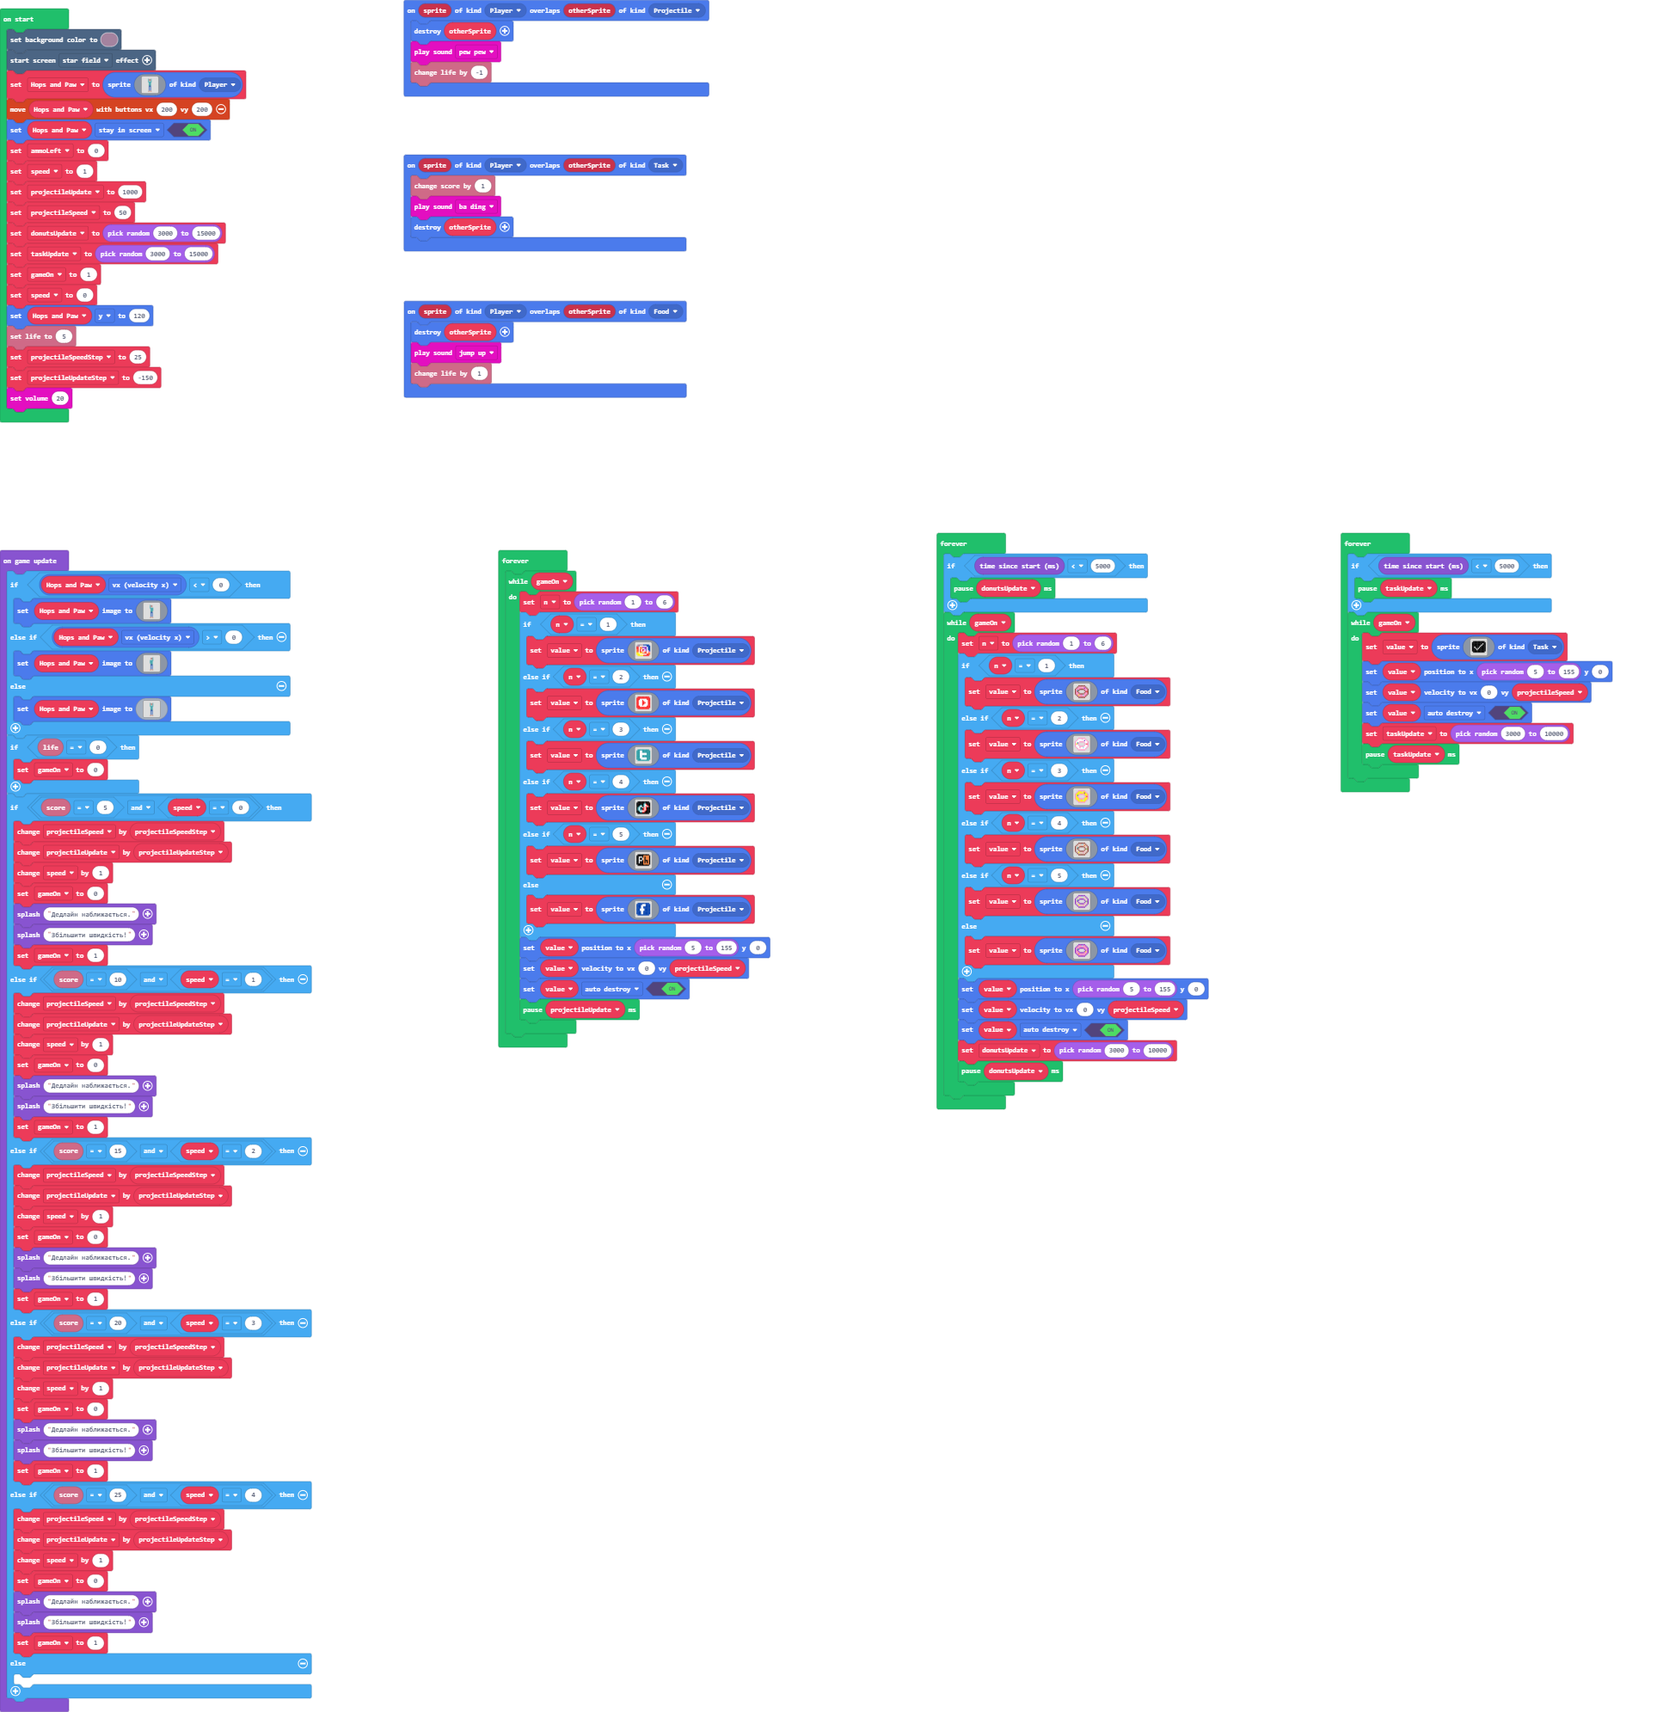
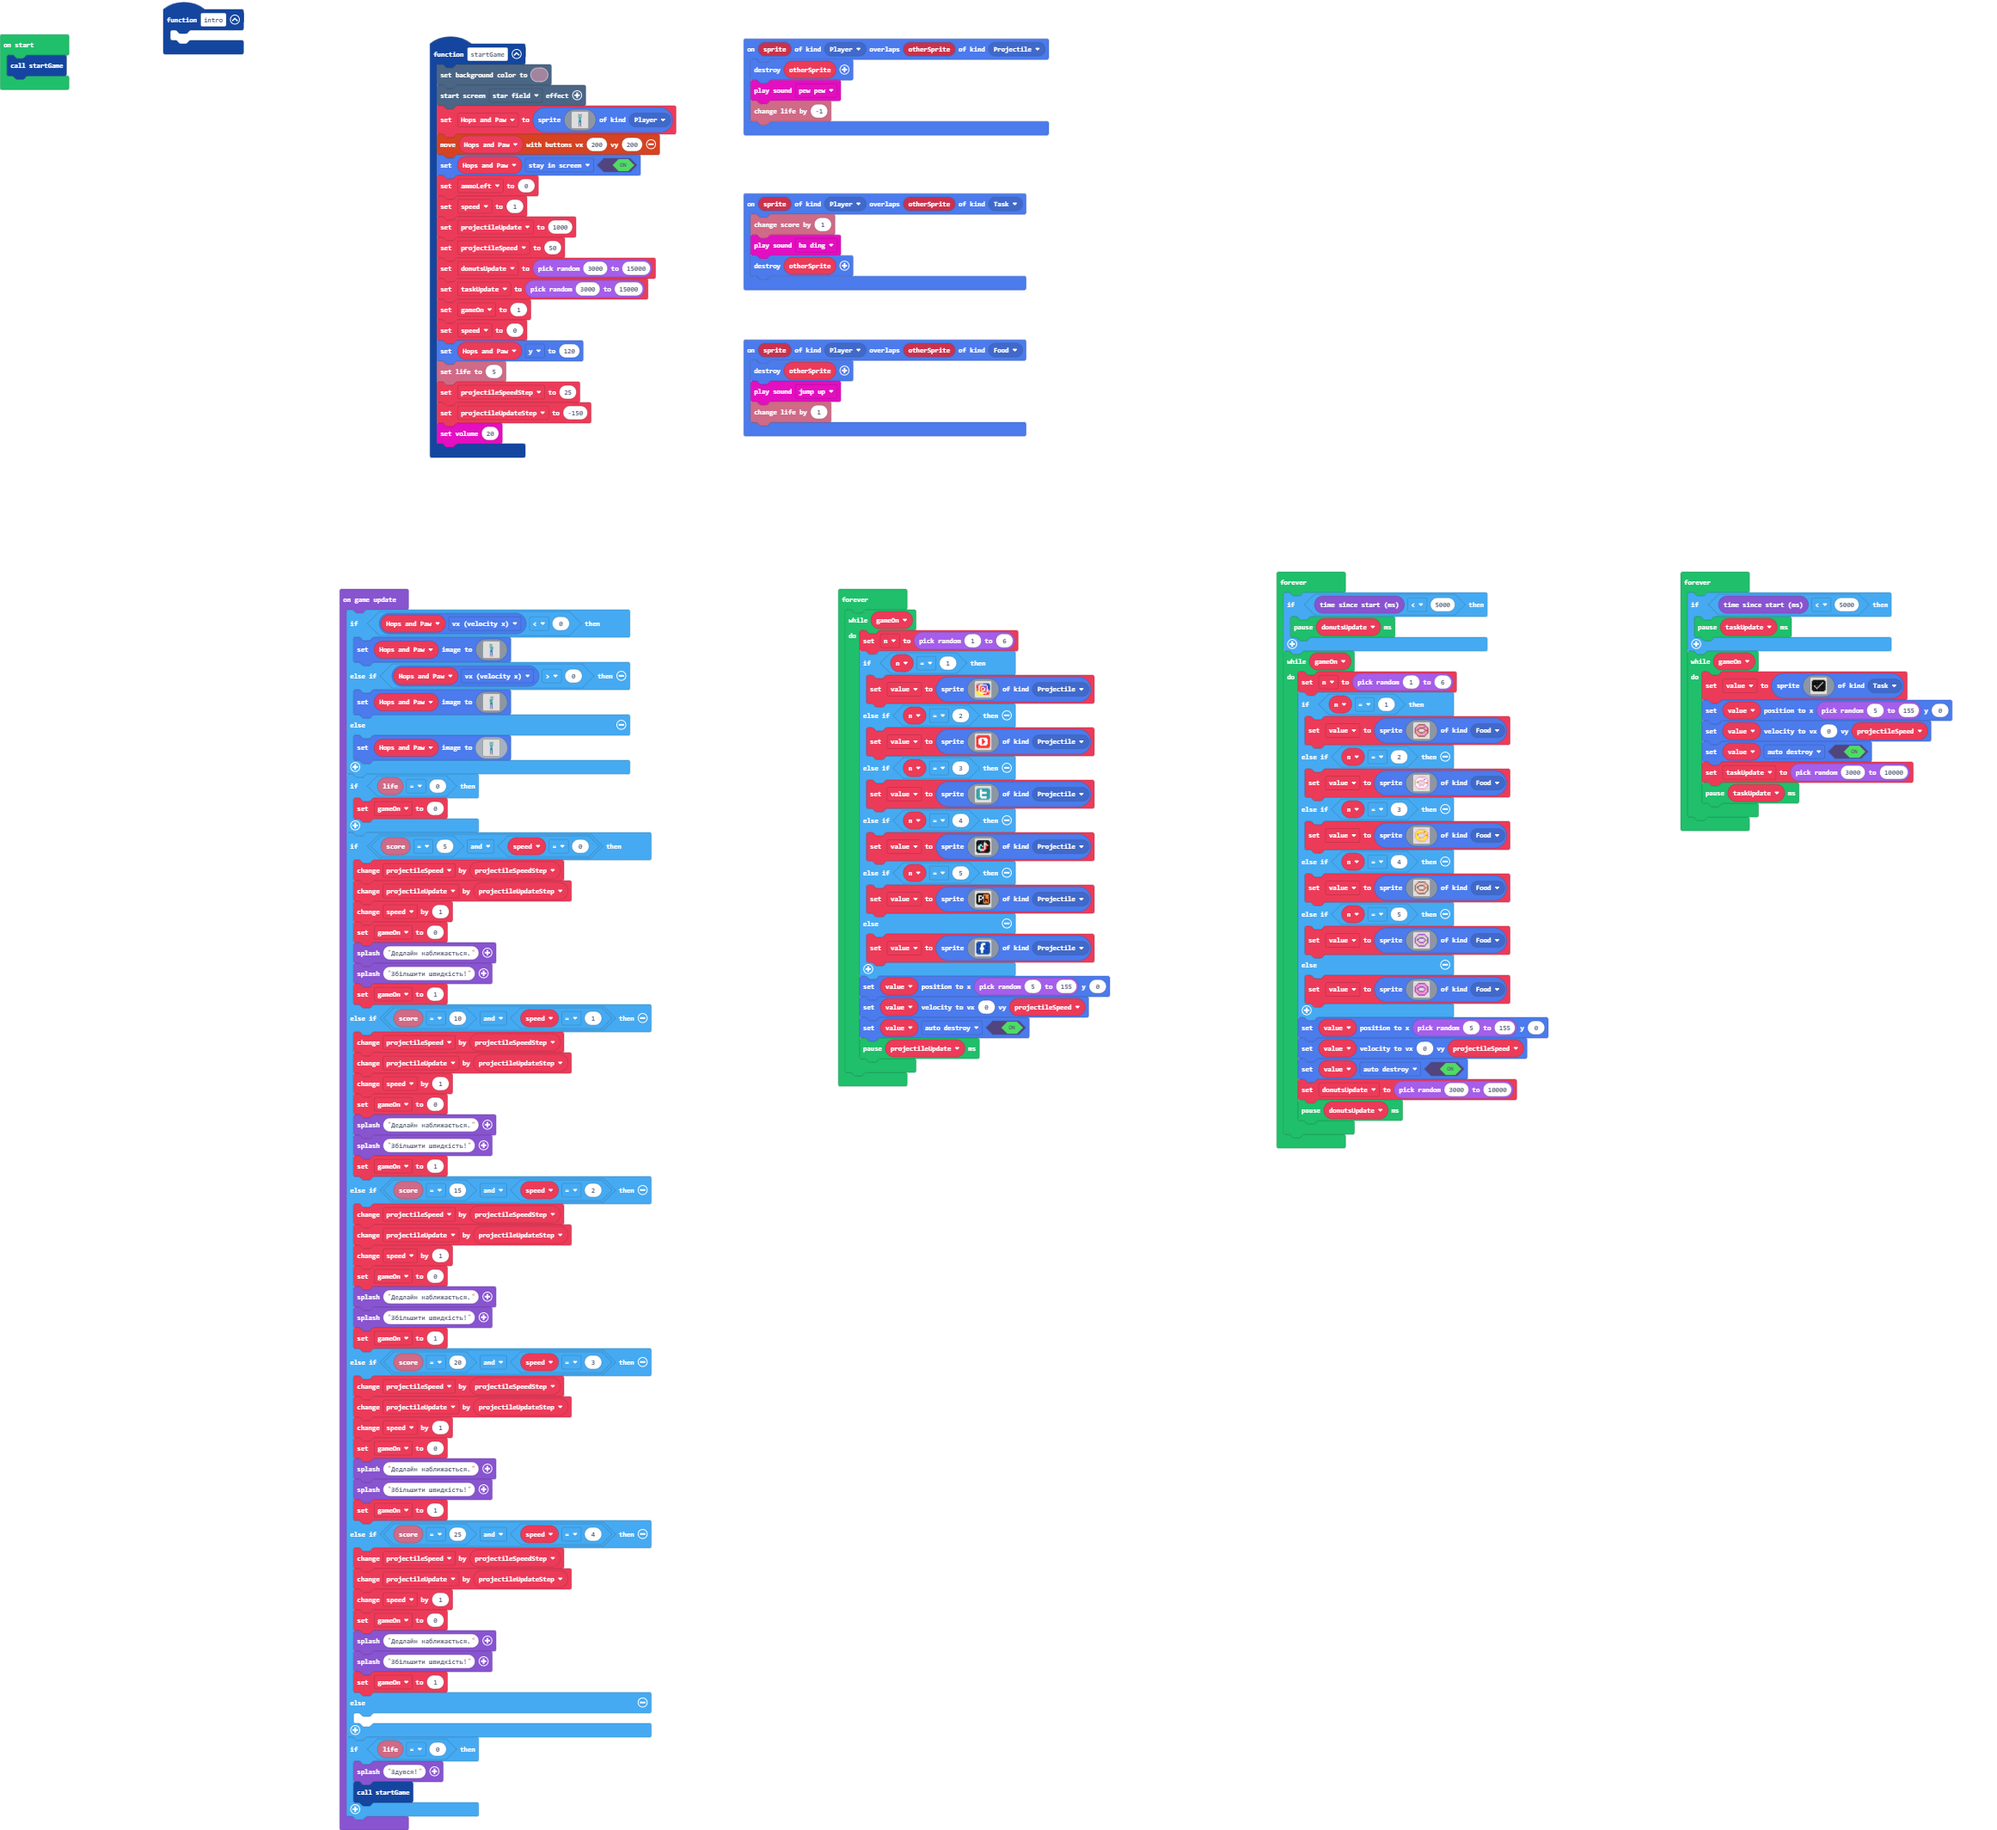
Update main.blocks, main.ts

diff --git a/main.ts b/main.ts
@@ -4,6 +4,29 @@ namespace SpriteKind {
     export const Fireball = SpriteKind.create()
     export const Task = SpriteKind.create()
 }
+function startGame () {
+    scene.setBackgroundColor(11)
+    effects.starField.startScreenEffect()
+    Hops_and_Paw = sprites.create(assets.image`Hero - direct`, SpriteKind.Player)
+    controller.moveSprite(Hops_and_Paw, 200, 200)
+    Hops_and_Paw.setFlag(SpriteFlag.StayInScreen, true)
+    ammoLeft = 0
+    speed = 1
+    projectileUpdate = 1000
+    projectileSpeed = 50
+    donutsUpdate = randint(3000, 15000)
+    taskUpdate = randint(3000, 15000)
+    gameOn = 1
+    speed = 0
+    Hops_and_Paw.y = 120
+    info.setLife(5)
+    projectileSpeedStep = 25
+    projectileUpdateStep = -150
+    music.setVolume(20)
+}
+function intro () {
+	
+}
 sprites.onOverlap(SpriteKind.Player, SpriteKind.Projectile, function (sprite, otherSprite) {
     otherSprite.destroy()
     music.pewPew.play()
@@ -21,24 +44,17 @@ sprites.onOverlap(SpriteKind.Player, SpriteKind.Food, function (sprite, otherSpr
 })
 let value: Sprite = null
 let n = 0
-scene.setBackgroundColor(11)
-effects.starField.startScreenEffect()
-let Hops_and_Paw = sprites.create(assets.image`Hero - direct`, SpriteKind.Player)
-controller.moveSprite(Hops_and_Paw, 200, 200)
-Hops_and_Paw.setFlag(SpriteFlag.StayInScreen, true)
+let projectileUpdateStep = 0
+let projectileSpeedStep = 0
+let gameOn = 0
+let taskUpdate = 0
+let donutsUpdate = 0
+let projectileSpeed = 0
+let projectileUpdate = 0
+let speed = 0
 let ammoLeft = 0
-let speed = 1
-let projectileUpdate = 1000
-let projectileSpeed = 50
-let donutsUpdate = randint(3000, 15000)
-let taskUpdate = randint(3000, 15000)
-let gameOn = 1
-speed = 0
-Hops_and_Paw.y = 120
-info.setLife(5)
-let projectileSpeedStep = 25
-let projectileUpdateStep = -150
-music.setVolume(20)
+let Hops_and_Paw: Sprite = null
+startGame()
 game.onUpdate(function () {
     if (Hops_and_Paw.vx < 0) {
         Hops_and_Paw.setImage(assets.image`Hero - left`)
@@ -92,6 +108,10 @@ game.onUpdate(function () {
         gameOn = 1
     } else {
     	
+    }
+    if (info.life() == 0) {
+        game.splash("Здувся!")
+        startGame()
     }
 })
 forever(function () {
